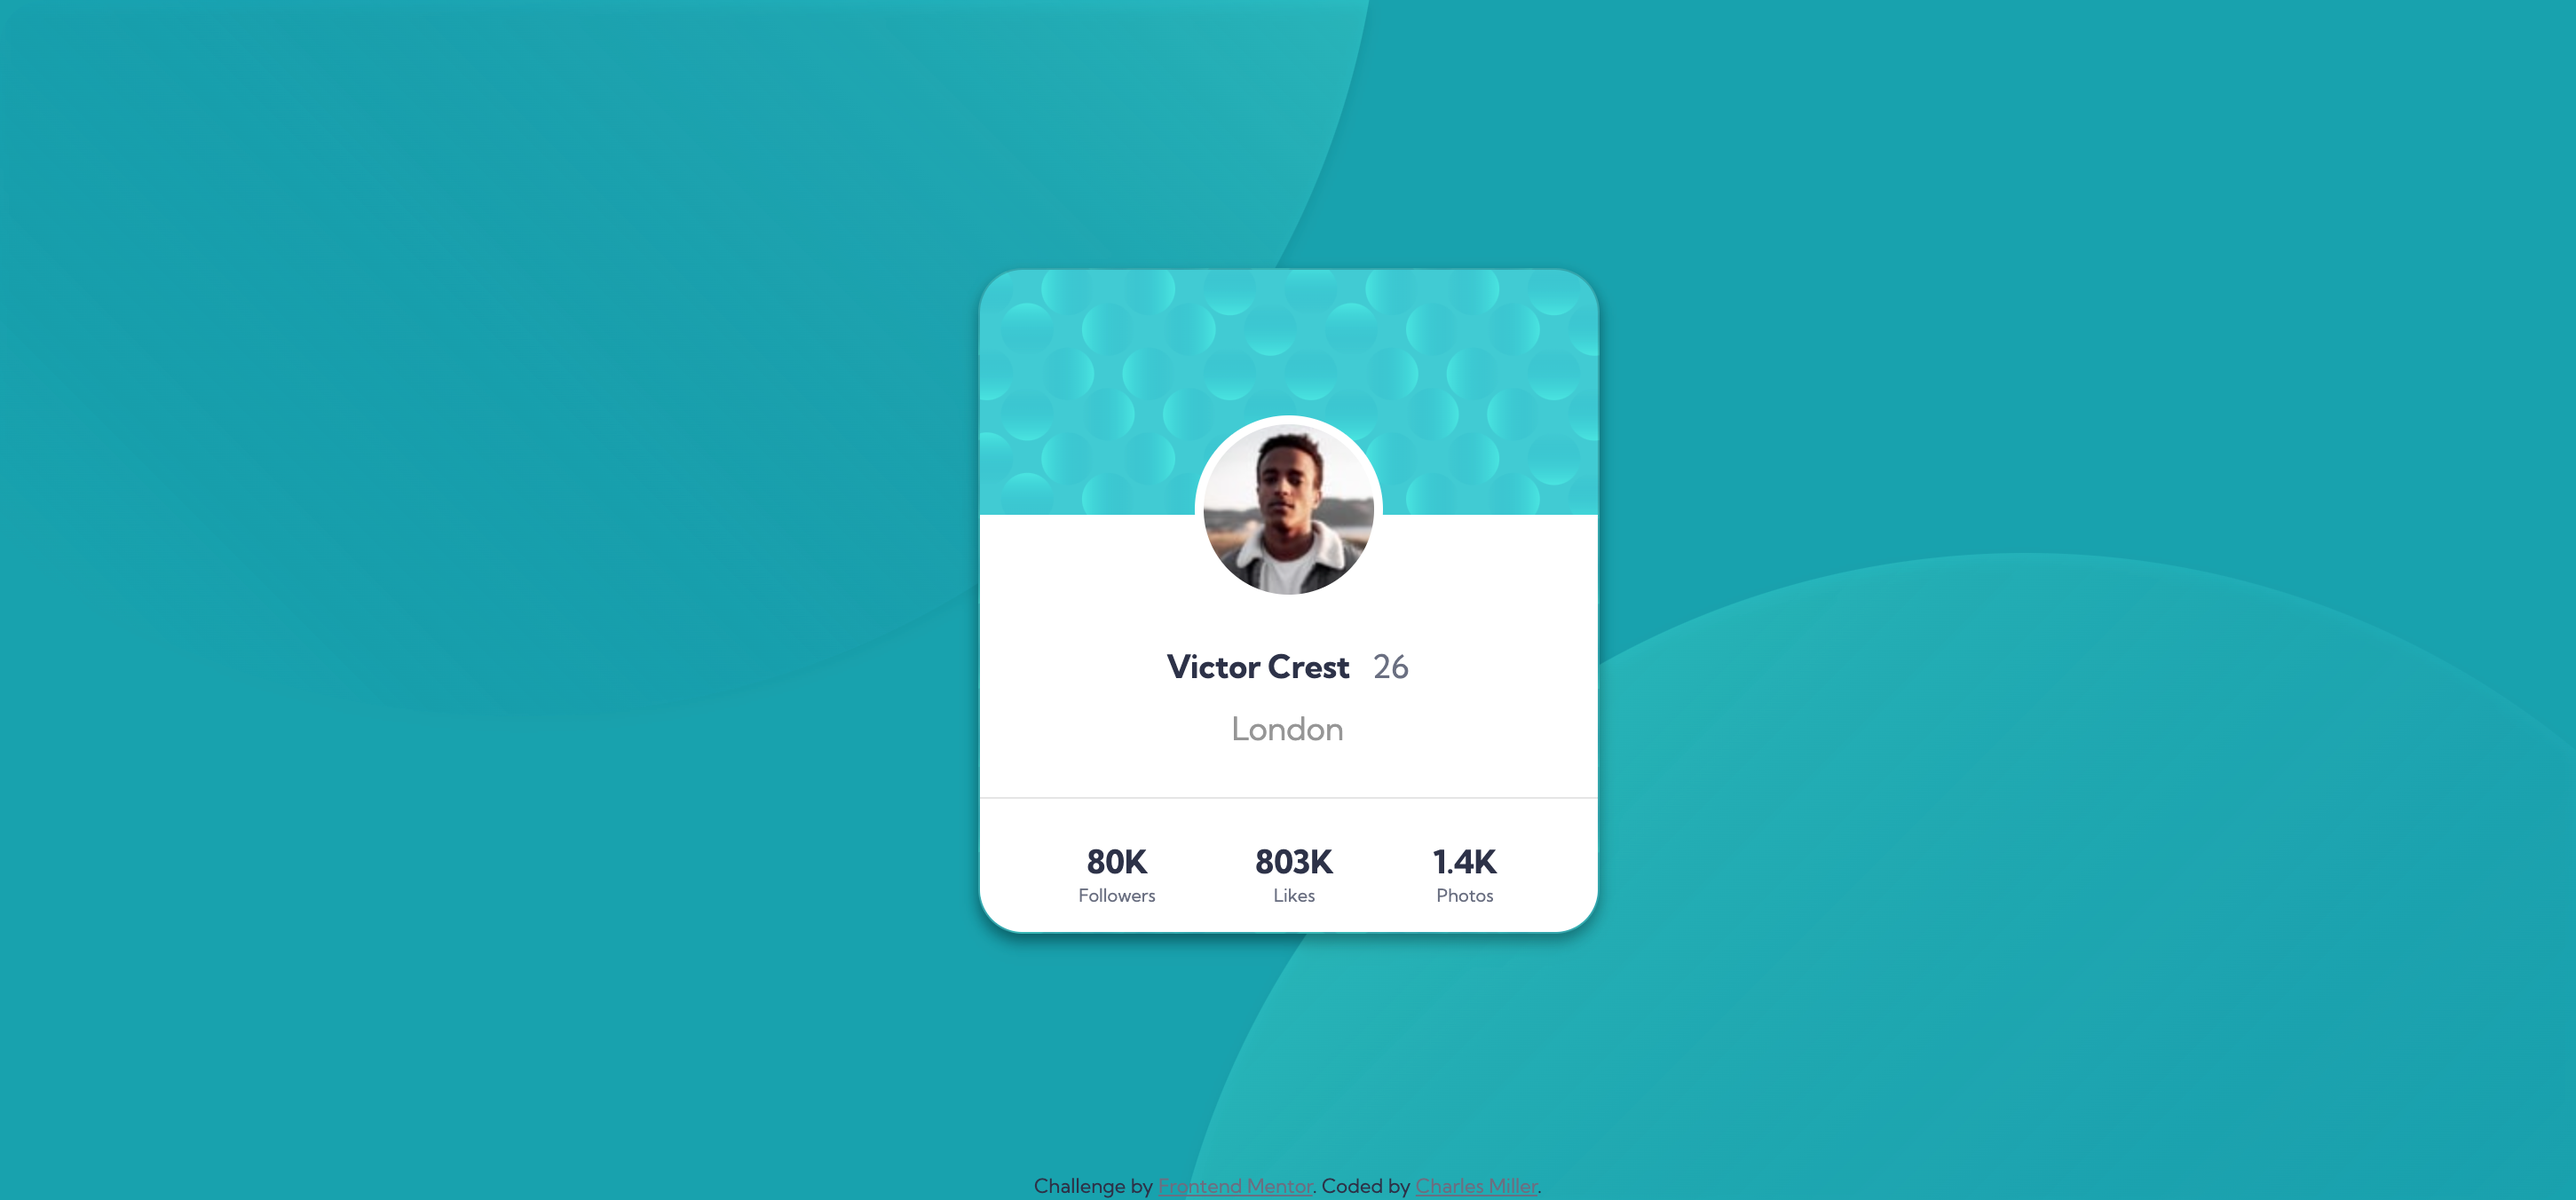
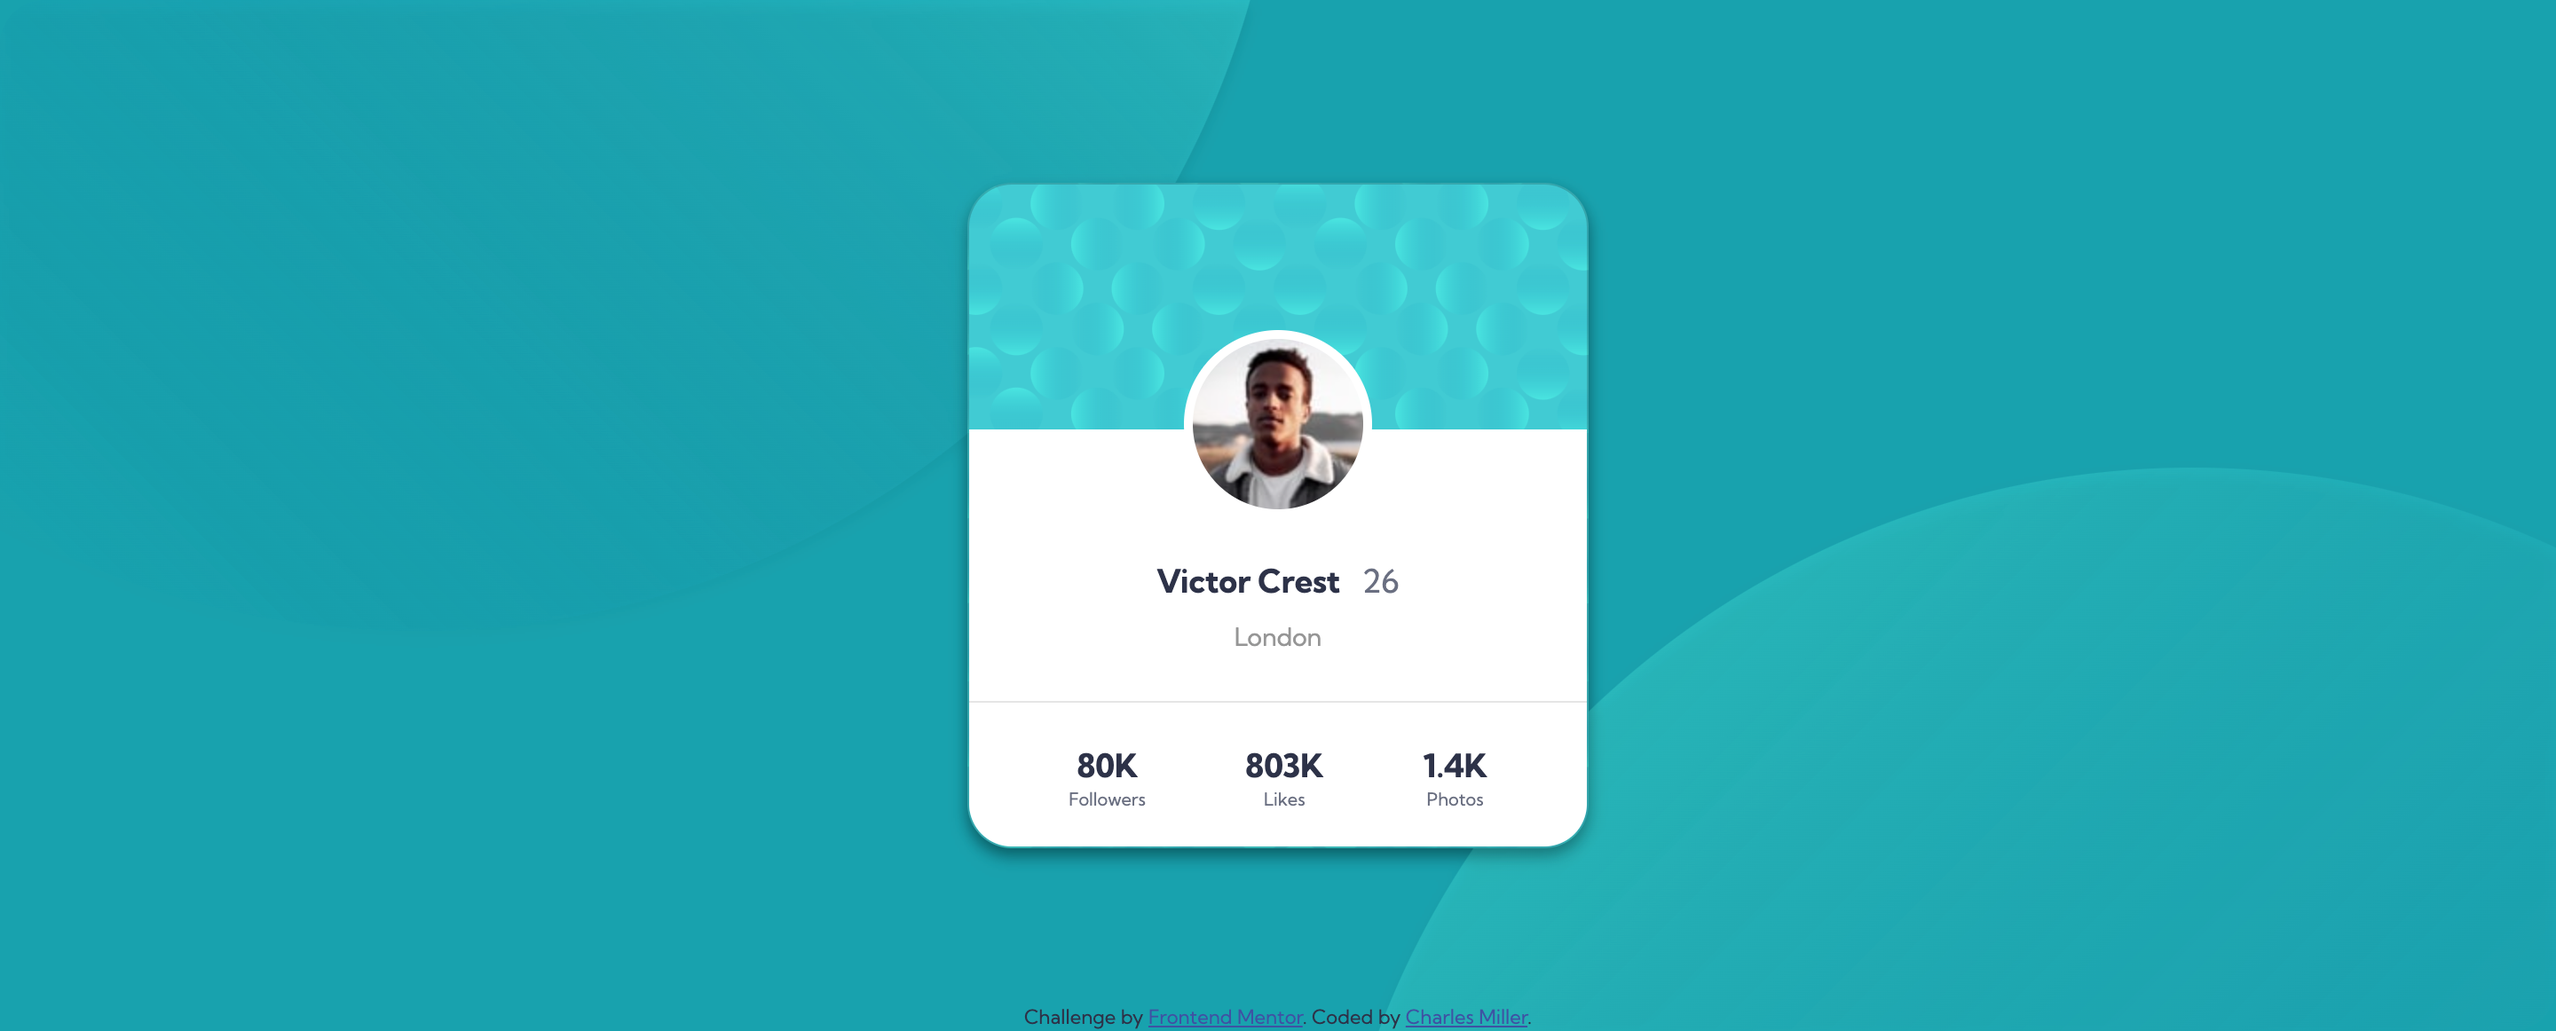
new screenshot and fixed sizing issues

diff --git a/assets/css/style.css b/assets/css/style.css
@@ -8423,7 +8423,8 @@ main {
           font-weight: 700;
           padding-right: 8px; }
       .card__bottom--text-location {
-        color: #969696; }
+        color: #969696;
+        font-size: 14px; }
     .card__bottom hr {
       color: #969696;
       margin: 25px 0; }

diff --git a/assets/sass/components/_card.scss b/assets/sass/components/_card.scss
@@ -30,6 +30,7 @@
 
             &-location {
                 color: $color-gray;
+                font-size: 14px;
             }
         }
         & hr {
